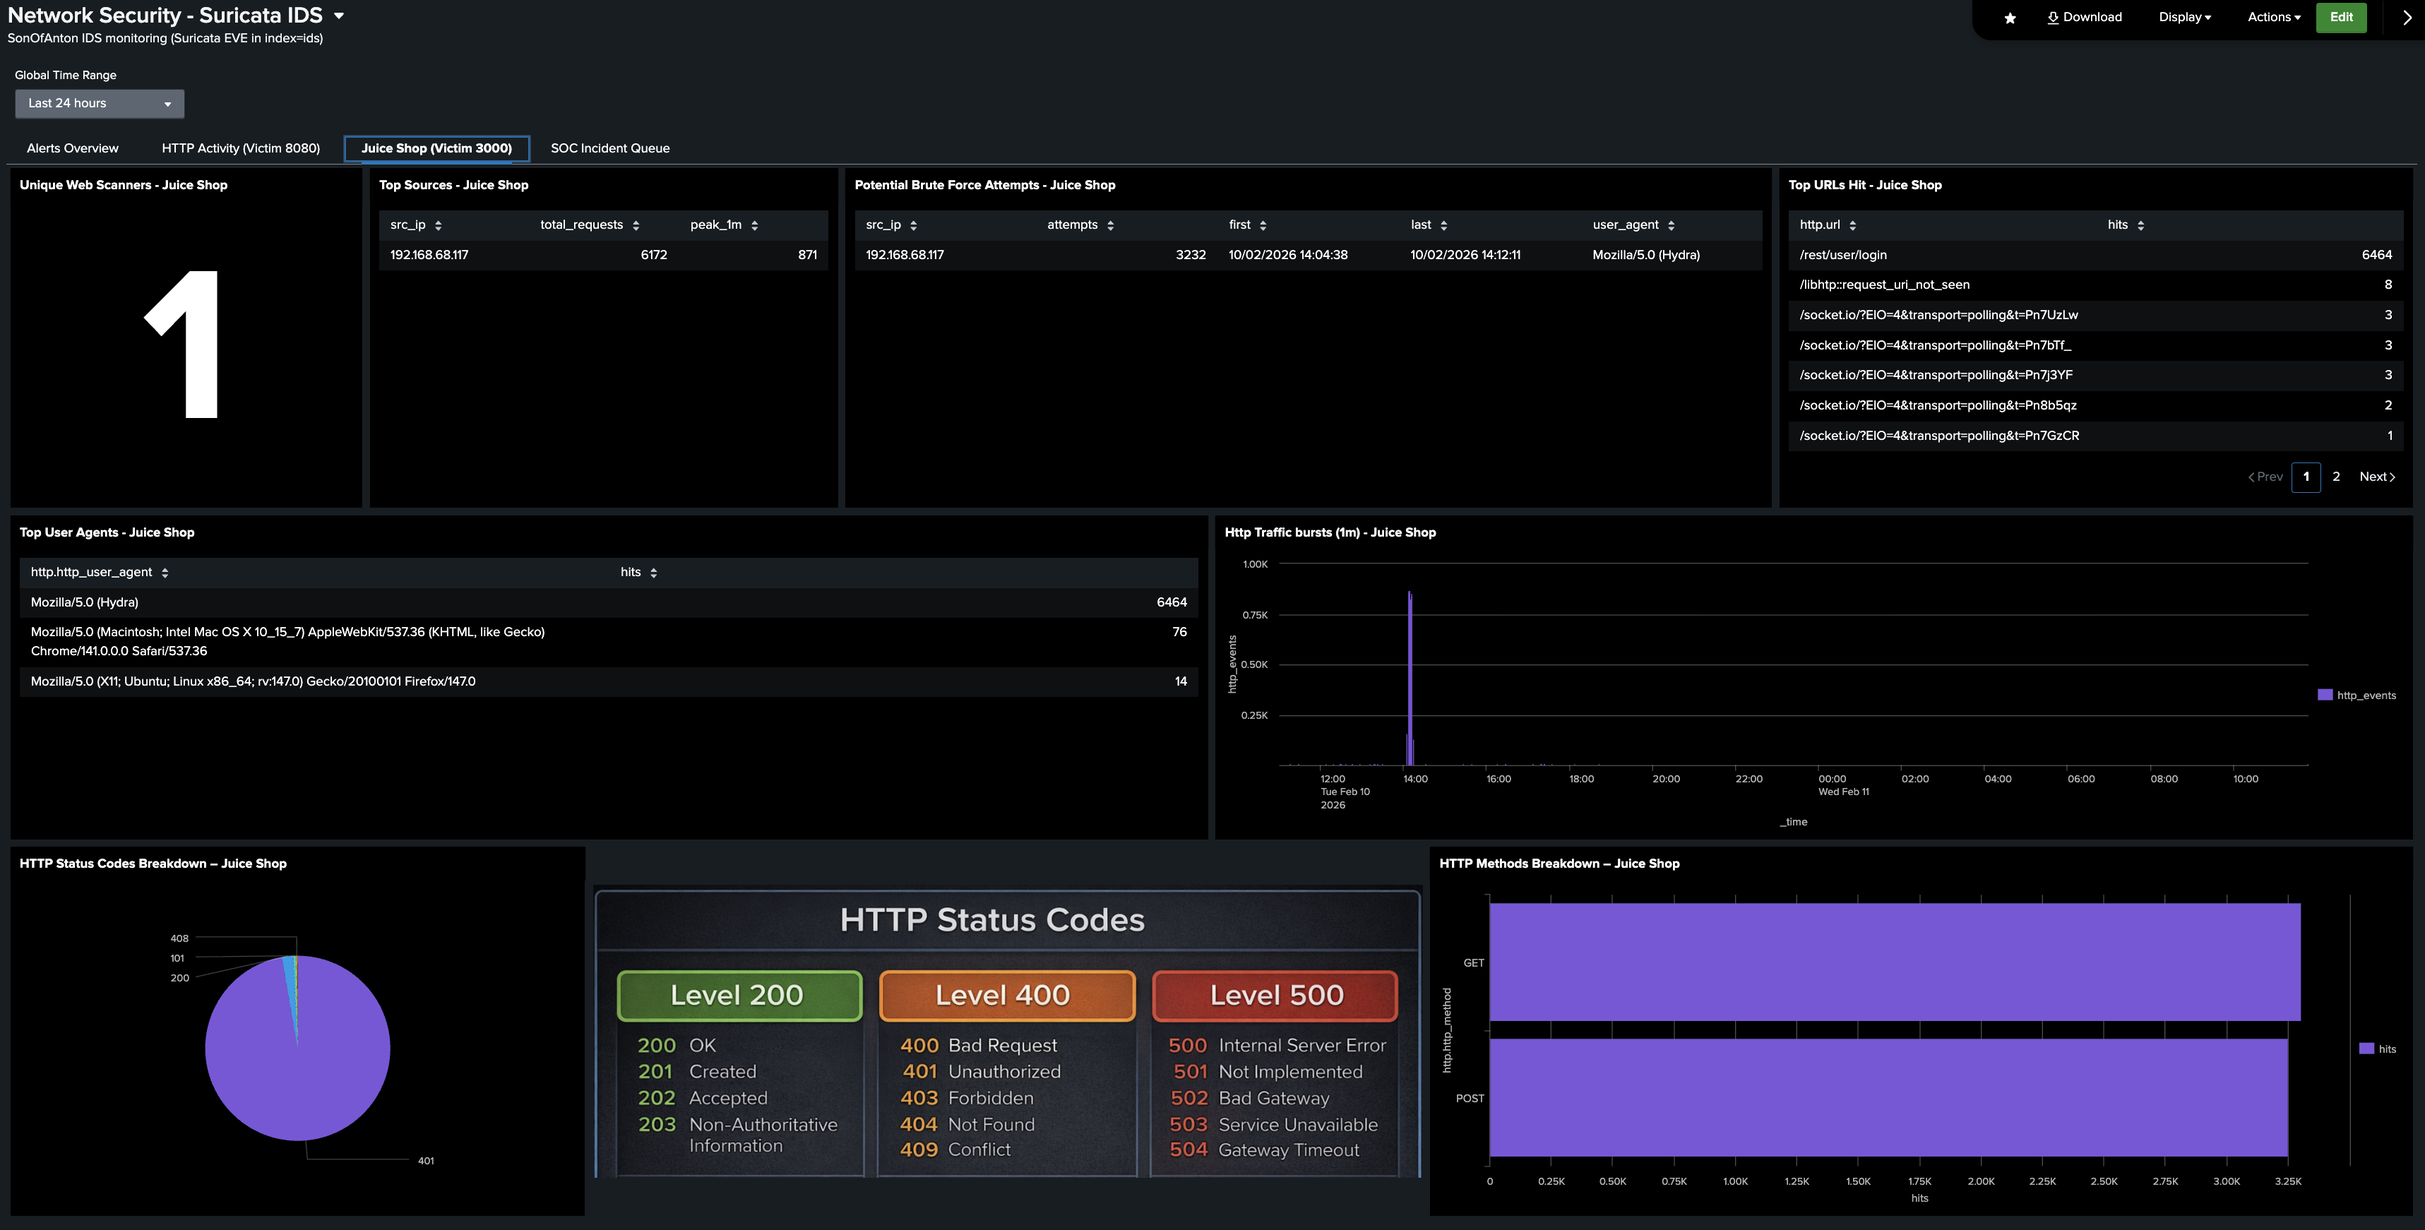
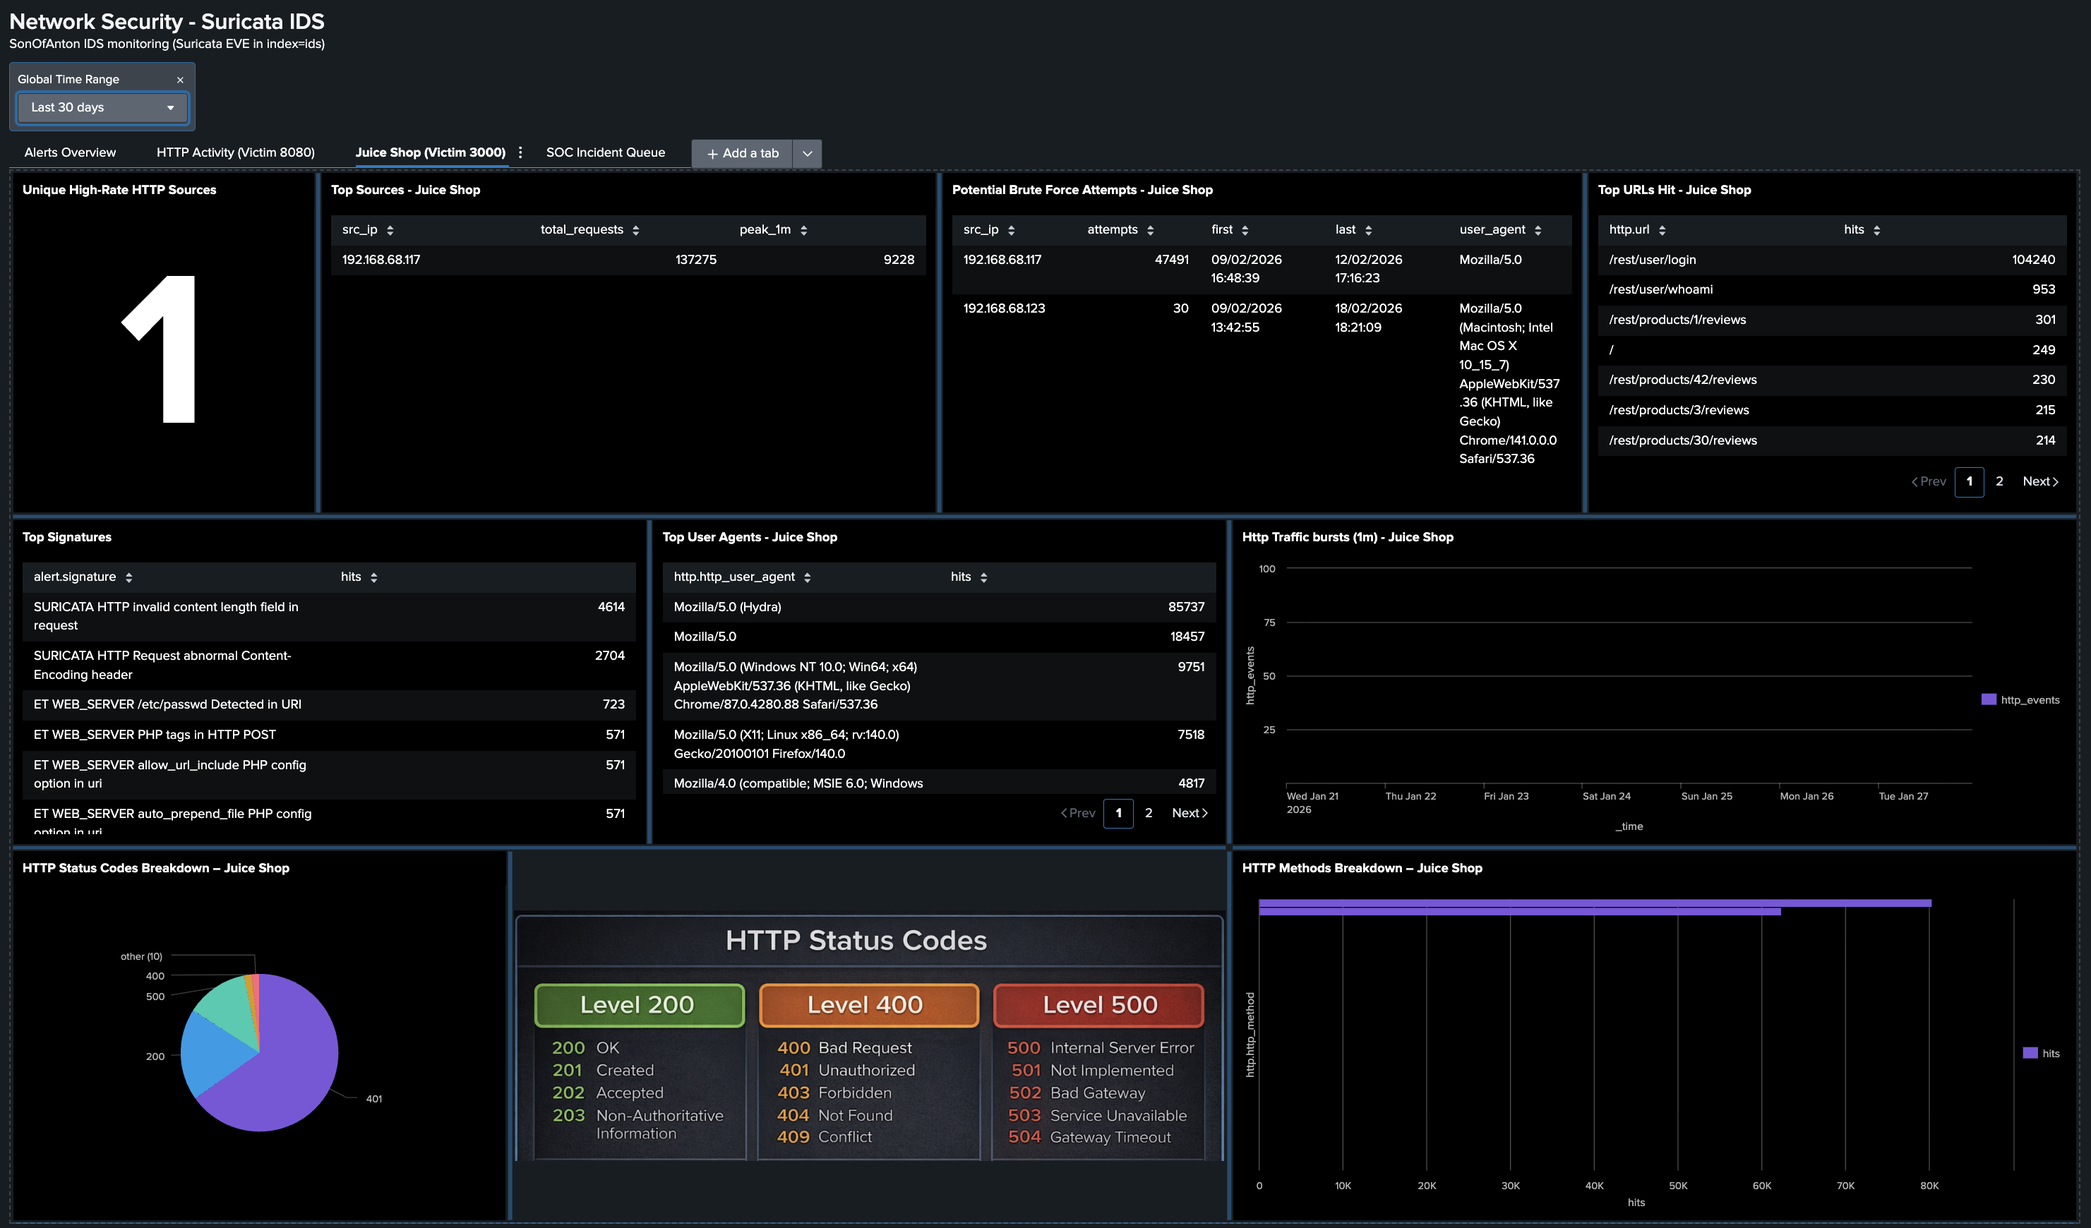
added new incident response report, new templates and dashboard updates. Updated README and progess log.

diff --git a/docs/ir_runbook.md b/docs/ir_runbook.md
@@ -1,0 +1,138 @@
+# Cyberlab Generic Incident Response Runbook
+
+## Purpose
+A simple incident response runbook for Cyberlab investigations.
+
+## Core Rule
+If the activity **does not show up in defender telemetry**, this is **not Incident Response** yet — it becomes **Engineering**:
+- fix logging/collection, parsing/field extraction, detection logic, or visibility gaps
+- then re-test and re-run triage
+
+---
+
+## 1) Trigger → Start the Case
+**Goal:** lock in what I actually observed
+
+Record:
+- Trigger source (alert name / dashboard panel / manual observation)
+- Time window (first seen / last seen)
+- Primary entity (host, user, src_ip, URL, process, file, container/service)
+- Initial severity (Low / Medium / High) using the rubric below
+
+**Severity / Priority**
+- **Low:** blocked/failed attempt, recon/probing, no impact indicators
+- **Medium:** suspicious success indicators, persistence attempt, repeated auth failures, unusual execution
+- **High:** confirmed compromise, data exposure, credential theft, lateral movement, service disruption
+
+---
+
+## 2) Validate the Trigger with Raw Evidence
+**Goal:** confirm the event is real and understand exactly what was detected:
+
+- Pivot from the summary/visualization into the **raw event(s)**
+- Extract only facts (no interpretation yet):
+  - timestamp(s)
+  - involved systems (src/dest host or account)
+  - action/result (allowed/blocked, status code, failure reason)
+  - key indicator (URI/process/hash/file path/command line)
+
+---
+
+## 3) Scope the Activity
+**Goal:** determine how large this is and what else is involved.
+
+Check:
+- Time scope: first/last, bursts, recurring pattern
+- Entity scope:
+  - other affected hosts/services
+  - other source IPs/users
+  - related indicators (same user-agent/tooling string, same filename, same command pattern)
+- Volume: single event vs repeated attempts
+
+Output:
+- A short statement of scope (e.g., “single source → single target over 10 minutes”)
+
+---
+
+## 4) Determine Success vs Failure (Impact Test)
+**Goal:** decide whether this is just “attempted activity” or “impact”.
+
+Rule: **do not treat a single metadata signal as proof of success**
+- Example: **HTTP 200** does not prove data exposure or **alert fired** does not prove execution occurred
+
+Pivot to the **best source-of-truth** for the question I'm answering:
+- **Endpoint truth**: process creation, parent/child, command line, network connections, file writes
+- **Application/service truth**: application logs, service logs, authentication logs, error logs
+- **Network truth**: connections, requests, protocol metadata, IDS/IPS signatures
+
+Decide one:
+- **Blocked/Failed**: clear rejection/denial/errors with no follow-on impact indicators
+- **Possible Success**: ambiguous signals that require deeper validation
+- **Confirmed Impact**: direct evidence of disclosure/execution/persistence/privilege change
+
+---
+
+## 5) Containment Decision (Minimal + Reversible)
+**Goal:** stop the activity without destroying evidence.
+
+Containment options (choose the smallest effective action):
+- block source (firewall rule)
+- isolate host/VM/network segment
+- stop/disable a service temporarily
+- disable an account / reset creds (lab equivalent if applicable)
+- rate-limit / temporary deny rule (for noisy probes)
+
+Always capture evidence first if practical.
+
+---
+
+## 6) Eradication / Hardening
+**Goal:** remove the cause and reduce repeatability.
+
+Examples:
+- patch/update vulnerable component
+- remove malicious artifact (file/task/user)
+- tighten configuration (auth, exposed ports, access controls)
+- improve detection fidelity (reduce noise, add correlation, add a new data source)
+
+---
+
+## 7) Recovery
+**Goal:** return to normal operations and verify.
+
+- restore service/host to baseline state
+- confirm normal telemetry patterns return
+- confirm containment controls are removed or made permanent intentionally
+
+---
+
+## 8) Close-Out (Lessons Learned)
+**Goal:** every case improves the lab.
+
+Record:
+- what worked (telemetry, dashboards, correlation)
+- what didn’t (visibility gaps, noisy alerting, missing logs)
+- one concrete improvement item:
+  - new detection, new dashboard panel, better field extraction, better logging, or tighter config
+
+---
+
+# Evidence Pack (Attach to Every Case/IR Report)
+Minimum artifacts:
+- Screenshot: initial trigger view (alert/panel/spike)
+- Screenshot: one expanded raw event (the “why”)
+- Snippet/screenshot: source-of-truth validation (endpoint/app/service logs)
+- One-paragraph conclusion:
+  - what happened
+  - whether it succeeded
+  - what I did (or would do in a real org)
+
+---
+
+# Cyberlab Pivot Pattern (Tool-Agnostic)
+Pivot logic regardless of tools:
+1) Summary view → raw events
+2) Raw events → scope (who/what/when/how much)
+3) Scope → source-of-truth validation
+4) Validation → decision (blocked / possible / confirmed)
+5) Decision → containment + hardening + close-out

diff --git a/docs/reports/ir_002_suricata_web_alert_burst.md b/docs/reports/ir_002_suricata_web_alert_burst.md
@@ -1,0 +1,89 @@
+# IR-002 — Suricata Web Alert Burst – Juice Shop (SOA:3000)
+
+**Date/Time (UTC):** 20-02-2026 15:43 to 15:44  
+**Severity:** Low 
+**Status:** Closed
+**Category:** Recon/Probe, Exploit Attempt
+
+**Executive Summary:** A short burst of encoded traversal attempts targeted Juice Shop (SOA:3000) from 192.168.68.117 and was blocked/failed with no impact observed.
+
+---
+
+## 1) Trigger
+What caused me to start investigating?
+- **Source:** Splunk dashboard: Network Security - Suricata IDS - Juice Shop Tab
+- **Reason it looked suspicious:** big spike at 15:43 and many Suricata signatures triggered including `ET WEB_SERVER /etc/passwd Detected in URI`. Also observed URL encoded requests like `%2f%25%32%66%2e.%2f%2e.%25%32f..%%32%66%2e.%%32%66%2e.%2f%2e%2e%2f..%%32%66%2e.%252%66..%25%32%66.%2e/%62o%6ft.%69n%69`
+
+---
+
+## 2) Evidence (Key Artifacts)
+Bullet the *minimum* hard evidence I used.
+- Raw event (Suricata alert): 2026-02-20 15:43:23.268Z — `ET WEB_SERVER /etc/passwd Detected in URI` (category=Attempted Information Leak, action=allowed) from src_ip=192.168.68.117:49742 → dest_ip=192.168.68.112:3000 (http_method=GET, status=400, http.hostname=192.168.68.112, ua=Mozilla/5.0 ... Chrome/74.0.3729.169 ..., url=`%2fn%65%74%67%65t?sid=%75se%72&%6dsg=%33%300&%66%69le=../%2e.%2f..%2f%2e%2e%2f%2e%2e%2f../%2e%2e/.%2e/%2e.%2f.%2e%2fe%74c/%70%61s%73%77d`)
+- Raw event (Suricata alert): 2026-02-20 15:43:04.996Z — `ET INFO Dotted Quad Host TGZ Request` (category=Potentially Bad Traffic, action=allowed) from src_ip=192.168.68.117:32772 → dest_ip=192.168.68.112:3000 (http_method=GET, status=400, http.hostname=192.168.68.112, url=%2f19%32.%31%368.tgz)
+- Source-of-truth (Juice Shop Docker log): 2026-02-20 15:43:25.230Z — `URIError: Failed to decode param` (stderr) while processing a heavily URL-encoded/traversal-style parameter (target host=SOA, sourcetype=docker:json, index=docker)
+
+---
+
+## 3) Scope
+What systems/entities are involved?
+- **Primary target:** SOA (Son-of-Anton) — Juice Shop service (TCP 3000) 192.168.68.112:3000
+- **Other affected assets:** none observed
+- **Suspected source:** 192.168.68.117
+- **Time window:** 15:43 to 15:44
+- **Volume:** 711 Suricata http events
+
+---
+
+## 4) Triage Analysis
+Answer these explicitly:
+- **What was attempted?**  
+  Encoded path traversal / local file disclosure attempts against OWASP Juice Shop (192.168.68.112:3000) from 192.168.68.117, including requests targeting sensitive files (e.g., /etc/passwd, boot.ini) and traversal sequences (../, URL-encoded variants)
+- **Did it succeed? Why/why not?**  
+  Blocked/Failed. Suricata HTTP telemetry shows 400 responses for traversal/LFI-style requests, and the Juice Shop container logs show URIError: Failed to decode param during the same window, indicating the application rejected the encoded payload rather than returning file contents.
+- **Impact:**  
+  None observed
+
+---
+
+## 5) Actions Taken
+What I actually did during the case (or would do in a real org).
+- **Containment:** None (known internal lab source. Activity stopped after testing)
+- **Eradication/Hardening:** None during this case
+- **Recovery:** Not required
+
+---
+
+## 6) Lessons Learned / Improvements
+What will I change so the lab gets better next time?
+- Added a Top Signatures — Juice Shop (3000) panel to the Suricata IDS dashboard to speed up triage by immediately showing the most frequent alert signatures for the target service during spikes.
+
+---
+
+## 7) Summary
+A burst of Suricata web alerts was observed against OWASP Juice Shop (SOA 192.168.68.112:3000) from 192.168.68.117 within a 1 minute window, including encoded traversal attempts targeting sensitive files (e.g., /etc/passwd). Triage indicates the activity was blocked/failed (HTTP 400 responses and Juice Shop URIError: Failed to decode param), with no impact observed.
+
+---
+
+## Evidence Attachments
+Trigger view Suricata Dashboard
+
+![Trigger view](/assets/ir_002_image1.png)
+
+Expanded raw event
+
+![Raw Event](/assets/ir_002_image_02.png)
+
+Source-of-truth validation
+
+![Source of truth](/assets/ir_002_image_03.png)
+
+Decoded URL
+
+![Decoded URL](/assets/ir_002_image_04.png)
+
+
+----
+
+Attacker activity
+
+![Nikto](/assets/ir_002_image_05.png)

diff --git a/README.md b/README.md
@@ -50,6 +50,7 @@ Cyberlab is a hands-on learning environment designed to:
   - Purpose:
     - Acts as the central SOC server
     - Receives telemetry from all other lab endpoints
+    - Victim
 
 - **Lenovo ThinkPad T480 – Multi-OS Lab Workstation (Cyberlab)** - Dual-boot System: Ubuntu 24.04 LTS & Windows 10 Pro
   - Kali Linux installed on Ubuntu (VirtualBox)
@@ -106,10 +107,16 @@ Cyberlab is a hands-on learning environment designed to:
 
 ## Documentation
 
-High-level docs and setup guides live under `docs/` and `setup/`
+High-level runbooks/templates, detections, alerts, incident reports/case studies, lab findings, Splunk dashboard docs, and setup guides
 
 - **Networking & fundamentals**
   - [Networking fundamentals](docs/networking_fundamentals.md)
+
+- **Cyberlab Incident Response Runbook**
+  - [Cyberlab Incident Response Runbook](docs/ir_runbook.md)
+
+- **Incident Report Template**
+  - [Incident Report Template](docs/ir_report_template.md)
 
 - **Detections**
   - [DET-001 Encoded Powershell (Sysmon EID 1)](docs/detections/det_001_encoded_powershell.md)
@@ -128,6 +135,7 @@ High-level docs and setup guides live under `docs/` and `setup/`
 
 - **Reports**
   - [IR-001 Brute Force Attempt Against OWASP Juice Shop Login (Hydra) — Detected via Splunk + Suricata](docs/reports/ir_001_brute_force_attempt_juice_shop.md)
+  - [IR-002 — Suricata Web Alert Burst – Juice Shop (SOA:3000)](docs/reports/ir_002_suricata_web_alert_burst.md)
   - [CASE-001 Nmap Port Scan Against SOA Detected (Suricata + UFW corroboration)](docs/reports/case_001_nmap_scan_against_soa_detected.md)
   - [CASE-002 Web Scanner Activity Against Juice Shop Detected (Suricata + UFW corroboration)](docs/reports/case_002_web_scanner_activity.md)
   - [VULN-001 Nessus Finding: Splunk Information Disclosure Vulnerability (SP-CAAAP5E) (Fixed)](docs/reports/vuln_001_nessus_finding_splunk_info_disclosure.md)
@@ -167,13 +175,13 @@ For a complete history of changes, updates, and development work, see the full *
 
 - `assets/` — banners, screenshots
 - `diagrams/` — network/topology diagrams
-- `docs/` — documentation (networking fundamentals, dashboards, detections, notes)
+- `docs/` — documentation (networking fundamentals, templates, dashboards, detections, reports, guides)
     - `detections/` - detection write-ups / saved splunk searches
     - `alerts/` - alert write-ups
     - `reports` - incidents, cases and remediations (lab exercises & real events)
     - `findings` - lab findings & fixes (config issues,root causes, mitigations)
     - `splunk_dashboards/` - dashboard write-ups & SPL breakdowns    
-- `scripts/` — automation (e.g., Nmap → SQL/Splunk)
+- `archive_scripts/` — archived / retired scripts
 - `setup/` — install/config notes per component
 - [📓 Progress Log](progress-log.md) — running diary of changes and experiments
 

diff --git a/docs/ir_report_template.md b/docs/ir_report_template.md
@@ -1,0 +1,71 @@
+# IR-XXX — <Incident Title>
+
+**Date/Time (UTC):** <DD-MM-YYYY HH:MM> to <HH:MM>  
+**Severity:** <Low | Medium | High>  
+**Status:** <Open | Monitoring | Contained | Closed>  
+**Category:** <Recon/Probe | Exploit Attempt | Malware | Credential Attack | Lateral Movement | Other>
+
+---
+
+## 1) Trigger
+What caused me to start investigating?
+- **Source:** <Alert name / dashboard panel / manual observation>
+- **Reason it looked suspicious:** <spike, signature, anomaly, etc.>
+
+---
+
+## 2) Evidence (Key Artifacts)
+Bullet the *minimum* hard evidence I used.
+- <Raw event example 1 — timestamp + indicator>
+- <Raw event example 2 — timestamp + indicator>
+- <Source-of-truth validation — e.g., endpoint/app/service log snippet>
+
+(Screenshots/snippets will be attached at the bottom.)
+
+---
+
+## 3) Scope
+What systems/entities are involved?
+- **Primary target:** <host/service>
+- **Other affected assets:** <if any>
+- **Suspected source:** <src_ip/user/host>
+- **Time window:** <first seen / last seen>
+- **Volume:** <# events / burst pattern>
+
+---
+
+## 4) Triage Analysis
+Answer these explicitly:
+- **What was attempted?**  
+  <one sentence>
+- **Did it succeed? Why/why not?**  
+  <blocked / possible / confirmed + supporting evidence>
+- **Impact:**  
+  <none / suspected / confirmed; what data/system was affected>
+
+---
+
+## 5) Actions Taken
+What I actually did during the case (or would do in a real org).
+- **Containment:** <none / block / isolate / stop service / reset creds>
+- **Eradication/Hardening:** <config change / rule added / tuning>
+- **Recovery:** <service restored / verified normal>
+
+---
+
+## 6) Lessons Learned / Improvements
+What will I change so the lab gets better next time?
+- <new detection / new dashboard panel / new log source / tuning / parsing fix>
+
+---
+
+## 7) Summary
+1–3 sentences: what was observed, where, and the bottom-line outcome (blocked / possible success / confirmed impact).
+
+---
+
+## Evidence Attachments
+- Screenshot 1: <Trigger view>
+- Screenshot 2: <Expanded raw event>
+- Screenshot 3: <Source-of-truth validation>
+- (Optional) Log snippet: <copy/paste short excerpt>

diff --git a/docs/splunk_dashboards/suricata_ids_dashboard.md b/docs/splunk_dashboards/suricata_ids_dashboard.md
@@ -421,13 +421,15 @@ Shows which HTTP methods are being used against the victim service on port 8080.
 
 ## Tab 3 — Juice Shop (Victim 3000)
 
-This tab is basially a copy of Tab 2 (Victim 8080), re-scoped to **OWASP Juice Shop** on port 3000.
+This tab is based on Tab 2 (Victim 8080), but re-scoped to **OWASP Juice Shop** running on **TCP 3000**.
 
 ### What's different in this tab vs Victim 8080
 
-- All HTTP panels are focused on Juice Shop traffic (`dest_port=3000`). This makes it suitable for real lab attack simulation.
-- Additional panel: **Potential Brute Force Attempts** based on **[ALERT-003](/docs/alerts/alert_003_possible_brute_force.md)** logic (failed login pattern). 
-- Reference Image panel: **HTTP Status Codes Legend**
+- All HTTP panels are focused on Juice Shop traffic (`dest_port=3000`) to support realistic lab web-attack simulation against the Juice Shop container.
+- Panel rename: **Unique Web Scanners** was renamed to **Unique High-Rate HTTP Sources** (same SPL/logic; only the title changed to better reflect what the metric actually measures).
+- Additional panel: **Top Signatures — Juice Shop (3000)** to show the most frequent Suricata alert signatures targeting the Juice Shop service.
+- Additional panel: **Potential Brute Force Attempts — Juice Shop** based on **[ALERT-003](/docs/alerts/alert_003_possible_brute_force.md)** logic (high-rate login attempts; not status-code dependent).
+- Reference image panel: **HTTP Status Codes Legend** for faster interpretation during triage.
 
 **Screenshot**
 

diff --git a/progress-log.md b/progress-log.md
@@ -5,6 +5,21 @@ Entries are added as new components are installed, tested, or refined.
 
 
 ---
+## 20-02-2026   
+IR Runbook + IR Report Template Added + Suricata IDS Dashboard (Juice Shop Tab) Update + IR-002 Report
+
+- Added a generic SOC-style incident response runbook to the repo: [IR Runbook](docs/ir_runbook.md)
+- Added a standard incident response report template to speed up consistent writeups: [IR Template](/docs/ir_report_template.md)
+
+- Updated the **Network Security – Suricata IDS** dashboard (Juice Shop / Victim 3000 tab):
+  - Renamed **Unique Web Scanners** → **Unique High-Rate HTTP Sources** (same SPL; title corrected for accuracy)
+  - Added a new IDS-focused panel: **Top Signatures — Juice Shop (3000)** (Suricata alert signatures scoped to `dest_port=3000`)
+- Updated the dashboard documentation to reflect the Juice Shop tab changes: [Network Security – Suricata IDS](/docs/splunk_dashboards/suricata_ids_dashboard.md)
+
+- Published a new incident response report:
+  - [IR-002 — Suricata Web Alert Burst – Juice Shop (SOA:3000)](/docs/reports/ir_002_suricata_web_alert_burst_juice_shop.md)
+
+
 ## 18-02-2026  
 Juice Shop Docker Logs → Splunk Ingestion (`index=docker`)
 
